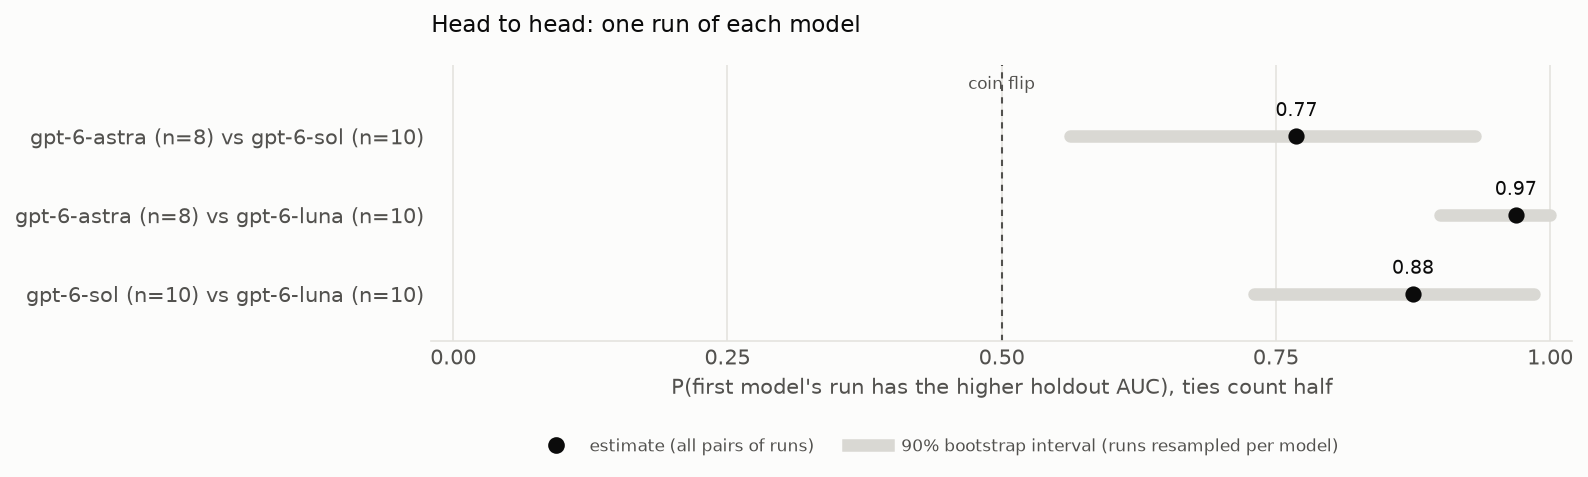
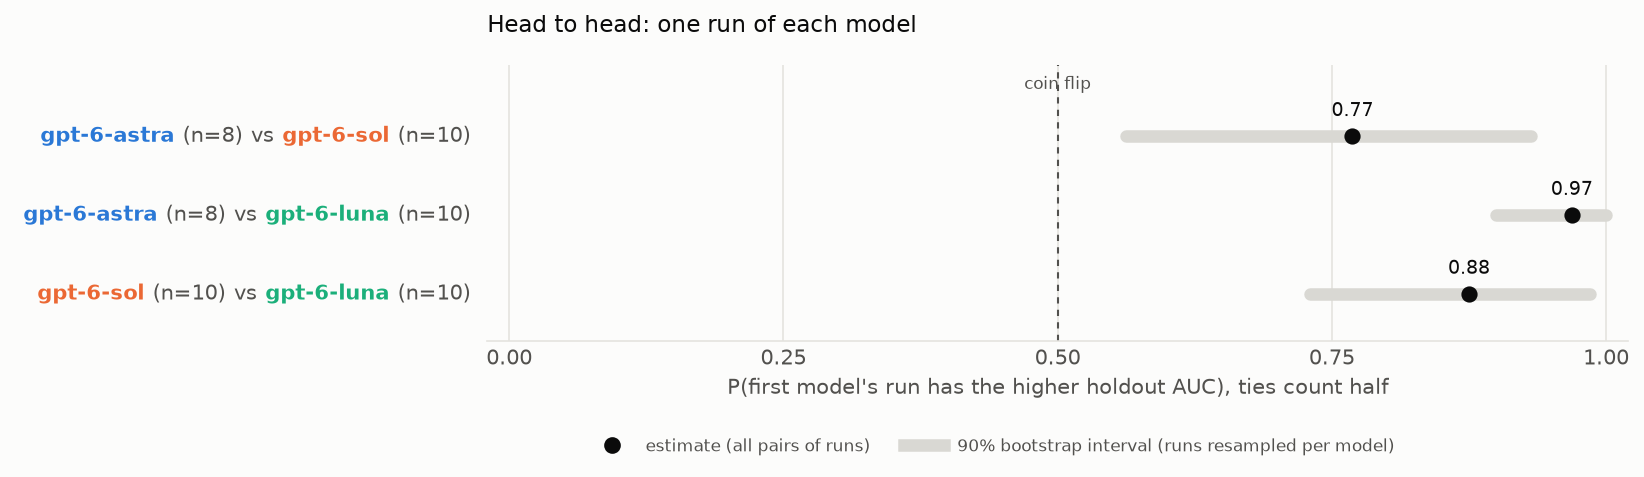
Pairwise plot: model names in the y labels in their colours
plot_holdout_auc: move the model -> colour lookup into model_colours() so
pairwise_win_prob uses the same colours (the two existing plots are
unchanged).

diff --git a/tools/pairwise_win_prob.py b/tools/pairwise_win_prob.py
@@ -31,8 +31,9 @@ from collections import defaultdict
 import matplotlib.pyplot as plt
 import numpy as np
 from matplotlib.lines import Line2D
+from matplotlib.offsetbox import AnnotationBbox, HPacker, TextArea
 
-from plot_holdout_auc import GRID, INK, INK2, RANGE, RUN_MULTI, SURFACE, save, style
+from plot_holdout_auc import GRID, INK, INK2, RANGE, RUN_MULTI, SURFACE, model_colours, save, style
 
 N_BOOT = 10000
 SEED = 1
@@ -79,9 +80,22 @@ def plot(rows, runs):
         ax.plot([lo, hi], [y, y], color=RANGE, lw=6, solid_capstyle="round", zorder=2)
         ax.scatter(p, y, s=46, color=INK, zorder=3)
         ax.text(p, y + 0.2, f"{p:.2f}", color=INK, fontsize=9, ha="center", va="bottom")
+    # y labels: each model name in its colour (as in the other plots), bold for legibility
+    colour = model_colours(runs)
     ax.set_yticks(range(len(rows)))
-    ax.set_yticklabels([f"{m1} (n={len(runs[m1])}) vs {m2} (n={len(runs[m2])})"
-                        for m1, m2, *_ in reversed(rows)], color=INK)
+    ax.set_yticklabels([])
+
+    def text(t, c=INK, weight="normal"):
+        return TextArea(t, textprops=dict(color=c, fontsize=10, fontweight=weight))
+
+    for i, (m1, m2, *_) in enumerate(rows):
+        label = HPacker(children=[text(m1, colour[m1], "bold"), text(f"(n={len(runs[m1])})", INK2),
+                                  text("vs", INK2),
+                                  text(m2, colour[m2], "bold"), text(f"(n={len(runs[m2])})", INK2)],
+                        pad=0, sep=4, align="baseline")
+        ax.add_artist(AnnotationBbox(label, (0, len(rows) - 1 - i), xycoords=("axes fraction", "data"),
+                                     xybox=(-8, 0), boxcoords="offset points", box_alignment=(1, 0.5),
+                                     frameon=False, annotation_clip=False))
     ax.set_ylim(-0.6, len(rows) - 0.1)
     ax.set_xlim(-0.02, 1.02)  # room for the round caps of intervals reaching 0 or 1
     ax.set_xticks(np.linspace(0, 1, 5))

diff --git a/tools/plot_holdout_auc.py b/tools/plot_holdout_auc.py
@@ -69,6 +69,19 @@ def keep_path(run_dir):
     return path
 
 
+def model_colours(models):
+    """{model: colour}: the fixed MODEL_SLOT colour, else the next free slot (with a warning)."""
+    models = sorted(models)
+    colour = {m: SERIES[MODEL_SLOT[m]] for m in models if m in MODEL_SLOT}
+    free = [c for i, c in enumerate(SERIES) if i not in MODEL_SLOT.values()]
+    for m in (m for m in models if m not in MODEL_SLOT):
+        if not free:
+            sys.exit(f"too many models; the palette has {len(SERIES)} colours")
+        colour[m] = free.pop(0)
+        print(f"warning: {m} has no fixed colour; add it to MODEL_SLOT", file=sys.stderr)
+    return colour
+
+
 def style(ax, title):
     ax.set_facecolor(SURFACE)
     ax.set_axisbelow(True)
@@ -173,15 +186,7 @@ def main():
     if not runs:
         sys.exit(f"no valid runs in {RUN_MULTI}")
 
-    models = sorted({r["model"] for r in runs})
-    colour = {m: SERIES[MODEL_SLOT[m]] for m in models if m in MODEL_SLOT}
-    free = [c for i, c in enumerate(SERIES) if i not in MODEL_SLOT.values()]
-    for m in (m for m in models if m not in MODEL_SLOT):
-        if not free:
-            sys.exit(f"too many models; the palette has {len(SERIES)} colours")
-        colour[m] = free.pop(0)
-        print(f"warning: {m} has no fixed colour; add it to MODEL_SLOT", file=sys.stderr)
-
+    colour = model_colours({r["model"] for r in runs})
     strip_plot(runs, colour)
     path_plot(runs, colour)
 
